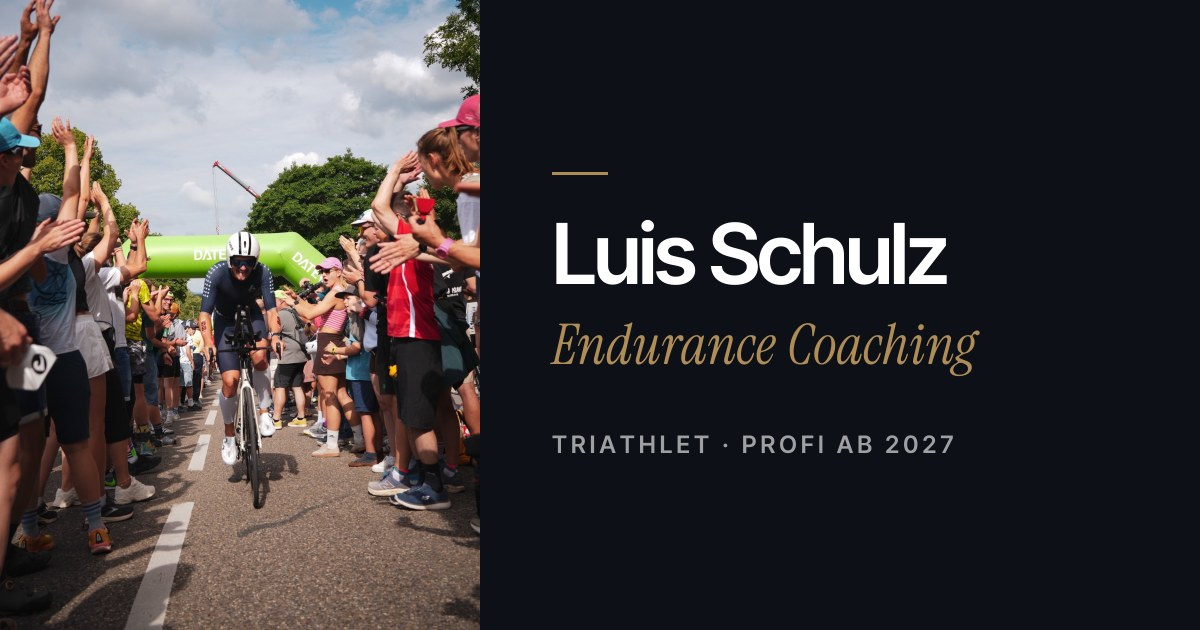
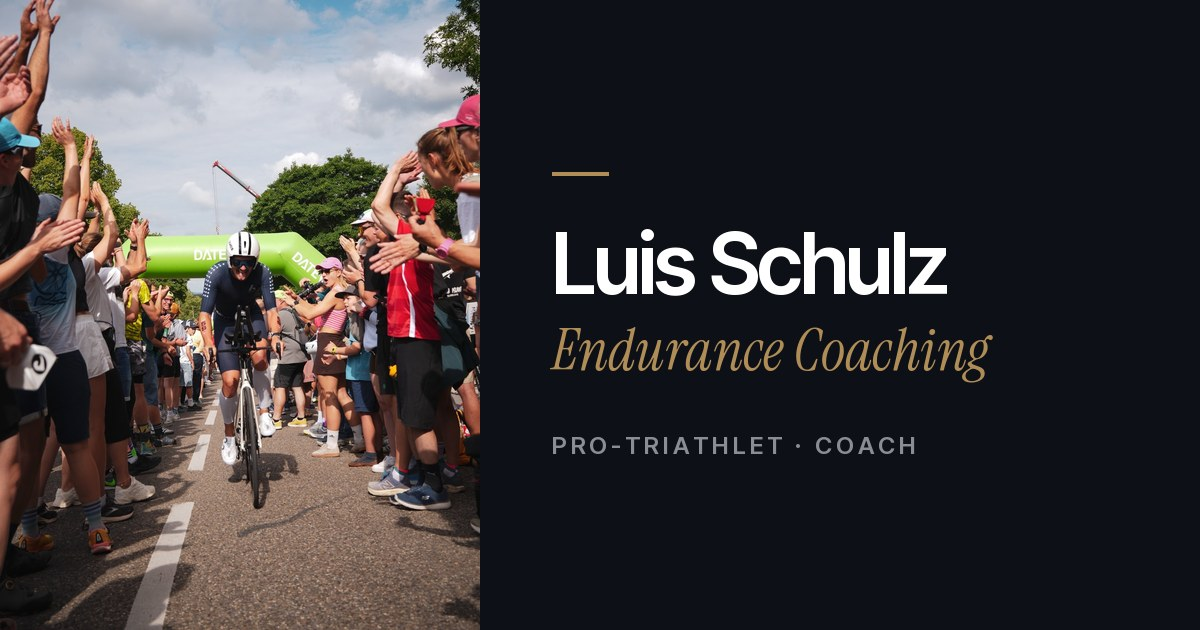
Pro-Triathlet statt Profi ab 2027
Claude-Session: https://claude.ai/code/session_01DEaVxJWVvQitrj6zEJPah7

diff --git a/keystatic.config.ts b/keystatic.config.ts
@@ -257,7 +257,7 @@ export default config({
       schema: {
         name: fields.text({ label: "Name" }),
         businessName: fields.text({ label: "Name des Gewerbes", description: "Erscheint im Footer und im Impressum" }),
-        role_de: fields.text({ label: "Rolle (Deutsch), z. B. „Profi-Triathlet & Coach“" }),
+        role_de: fields.text({ label: "Rolle (Deutsch), z. B. „Pro-Triathlet & Coach“" }),
         role_en: fields.text({ label: "Rolle (Englisch)" }),
         location: fields.text({ label: "Ort" }),
         emails: fields.object(
